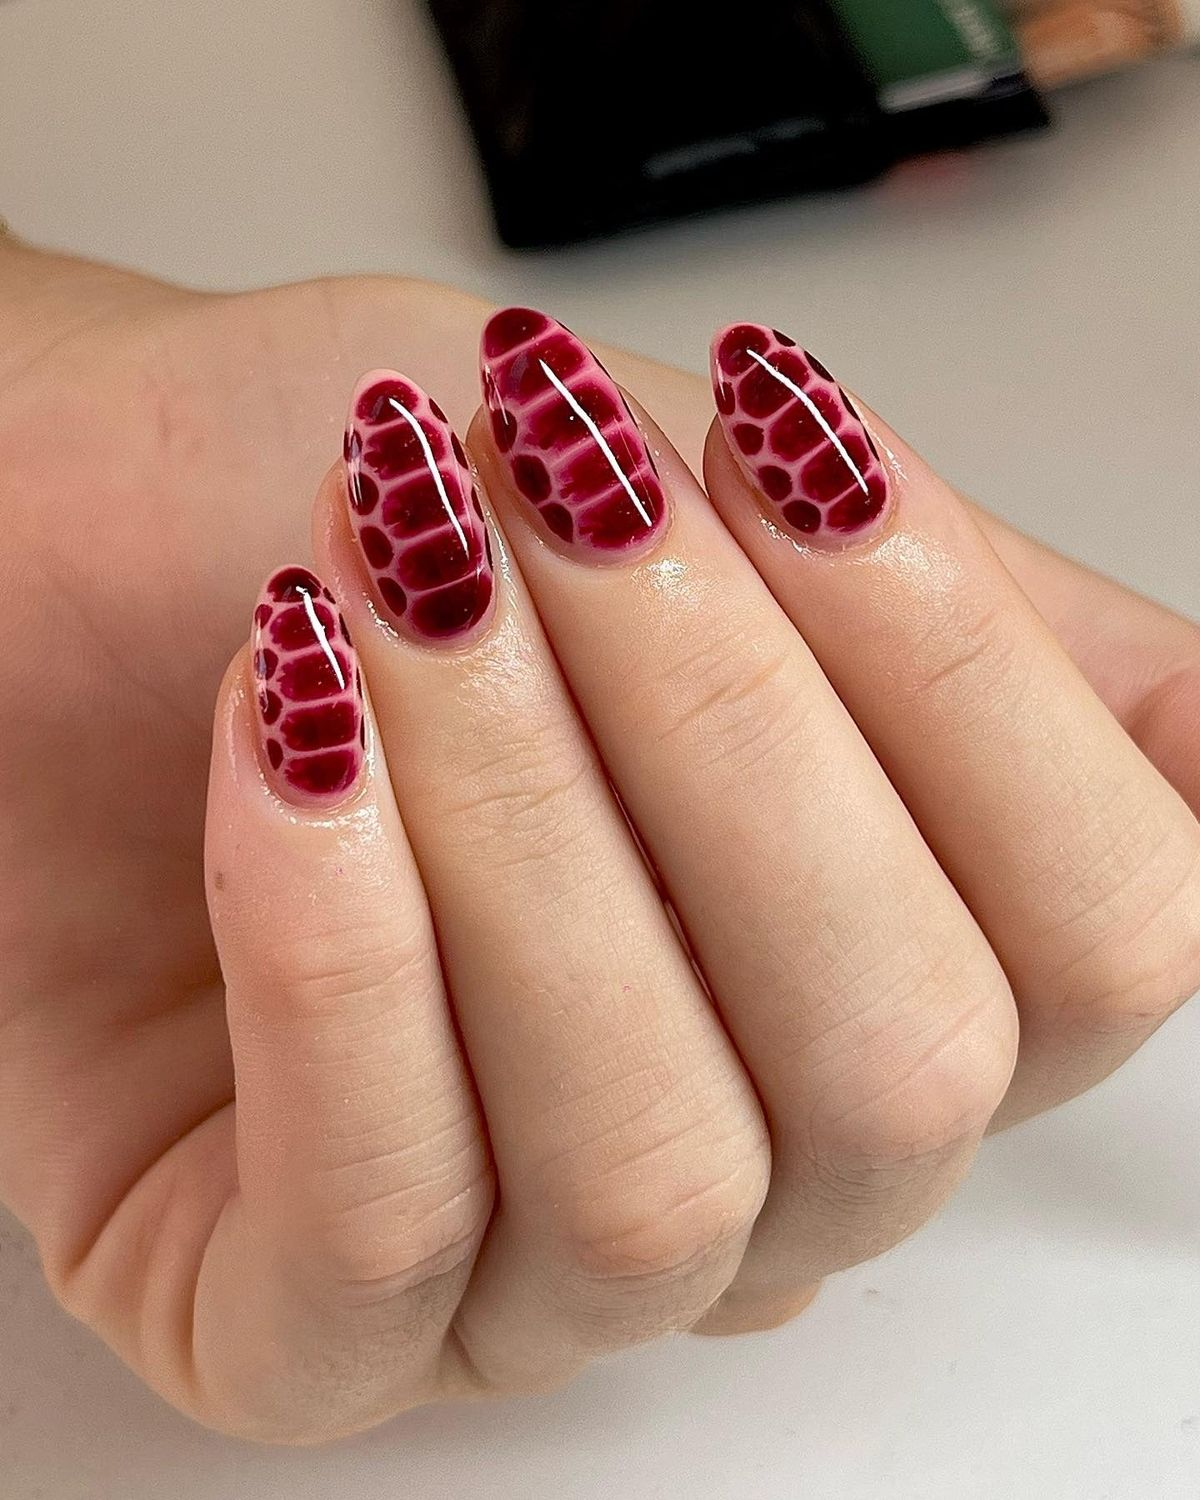
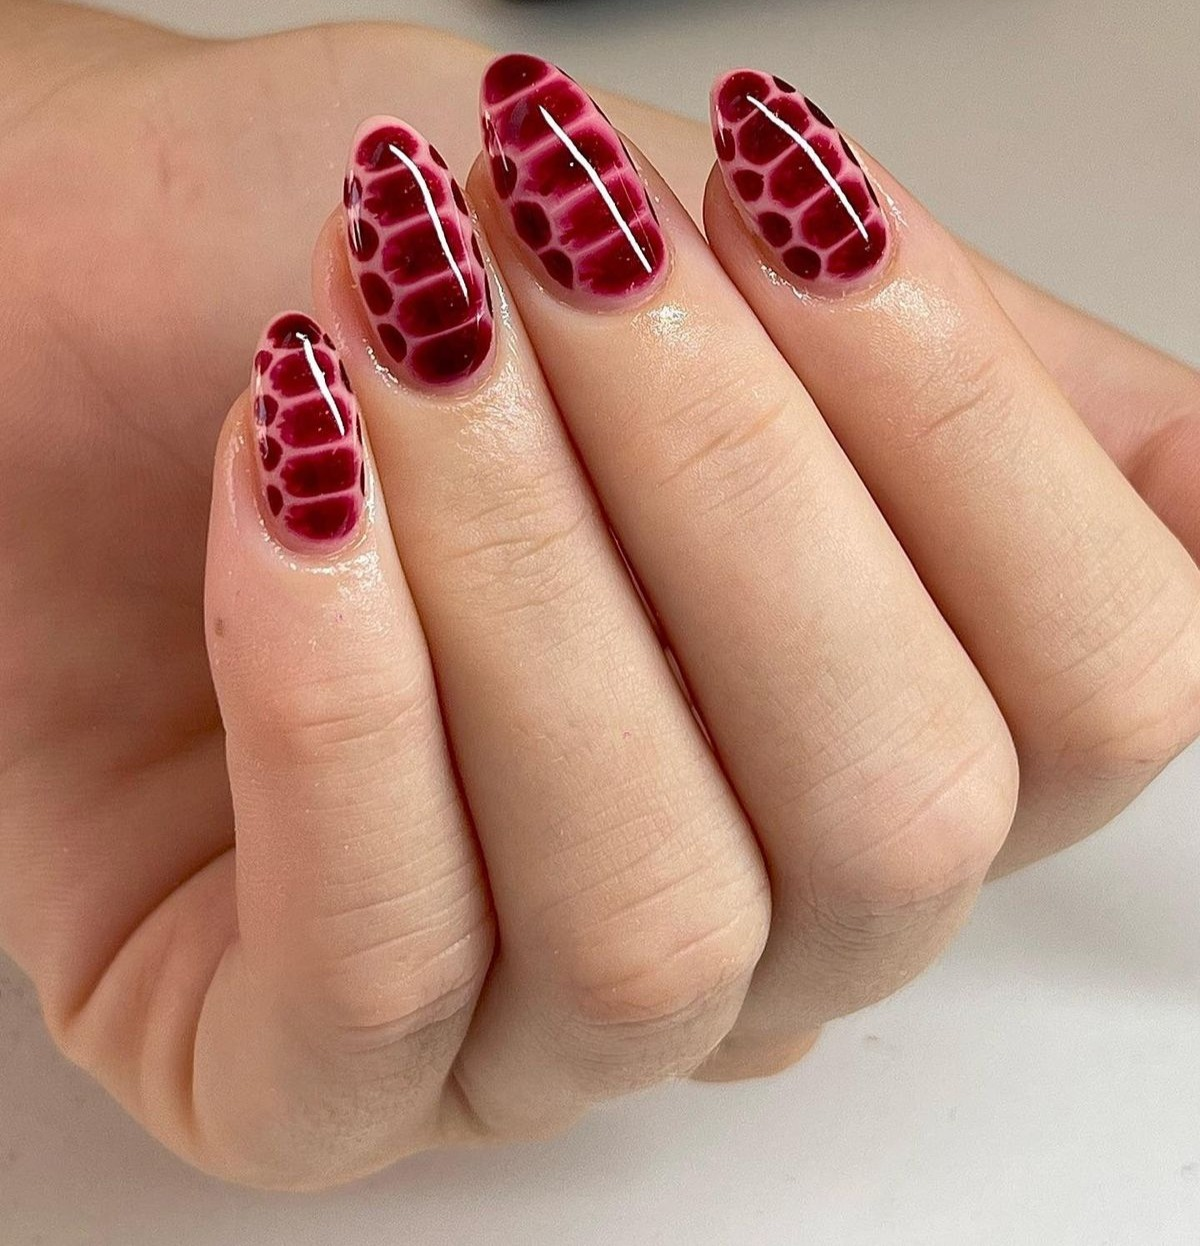
Add files via upload

diff --git a/index.html b/index.html
@@ -14,7 +14,7 @@ body {
 
 .container {
   max-width: 420px;
-  width:100%
+  width:100%;
   margin: auto;
 }
 
@@ -70,7 +70,11 @@ button {
   background: #25D366;
   color: white;
 }
-
+.whatsapp:disabled {
+  background: #9adbb0;
+  cursor: not-allowed;
+  opacity: 0.7;
+}
 .total {
   text-align: center;
   font-size: 26px;
@@ -134,21 +138,23 @@ lo vemos en el momento y te paso el valor según el trabajo 💅
 </small>
   <select id="decoracion" onchange="mostrarImagen()">
     <option value="0" data-img="">Sin decoración</option>
-    <option value="15000" data-img="relieve.jpg">Relieve - $15.000</option>
-    <option value="15000" data-img="carey.jpg">Carey - $15.000</option>
-    <option value="15000" data-img="cromado.jpg">Cromado - $15.000</option>
-    <option value="15000" data-img="cateye.jpg">Cat Eye - $15.000</option>
-    <option value="12000" data-img="blooming.jpg">Blooming - $12.000</option>
-    <option value="10000" data-img="babyboomer.jpg">Baby Boomer - $10.000</option>
-    <option value="10000" data-img="babycolor.jpg">Baby Color - $10.000</option>
-    <option value="8000" data-img="premium.jpg">Mano alzada premium - $8.000</option>
-    <option value="7000" data-img="french.jpg">French - $7.000</option>
-    <option value="7000" data-img="strass.jpg">Strass - $7.000</option>
-    <option value="6000" data-img="express.jpg">Mano alzada express (Flor, Corazon, Puntos) - $6.000</option>
-    <option value="5000" data-img="polvoaura.jpg">Polvo Aura - $5.000</option>
-    <option value="5000" data-img="polvocromadoazul.jpg">Polvo Cromado Azul - $5.000</option>
-    <option value="5000" data-img="polvocromadorojo.jpg">Polvo Cromado Rojo - $5.000</option>
-    <option value="5000" data-img="sticker.jpg">Sticker - $5.000</option>
+    <option value="10000" data-img="animalprint.jpg">Animal Print - $10.000</option>
+<option value="10000" data-img="babyboomer.jpg">Baby Boomer - $10.000</option>
+<option value="10000" data-img="babycolor.jpg">Baby Color - $10.000</option>
+<option value="12000" data-img="blooming.jpg">Blooming - $12.000</option>
+<option value="15000" data-img="carey.jpg">Carey - $15.000</option>
+<option value="15000" data-img="cateye.jpg">Cat Eye - $15.000</option>
+<option value="15000" data-img="cromado.jpg">Cromado - $15.000</option>
+<option value="7000" data-img="french.jpg">French - $7.000</option>
+<option value="10000" data-img="express1.jpg,express2.jpg,express3.jpg"> Mano alzada express (Flor, Corazon, Puntos) - $10.000</option>
+<option value="15000" data-img="marmol.jpg">Marmol - $15.000</option>
+<option value="10000" data-img="polka.jpg">Polka - $10.000</option>
+<option value="5000" data-img="polvoaura.jpg">Polvo Aura - $5.000</option>
+<option value="5000" data-img="polvocromadoazul.jpg">Polvo Cromado Azul - $5.000</option>
+<option value="5000" data-img="polvocromadorojo.jpg">Polvo Cromado Rojo - $5.000</option>
+<option value="15000" data-img="relieve.jpg">Relieve - $15.000</option>
+<option value="5000" data-img="sticker.jpg">Sticker - $5.000</option>
+<option value="7000" data-img="strass.jpg">Strass - $7.000</option>
   </select>
 
   <!-- 👇 FOTO -->
@@ -165,7 +171,19 @@ lo vemos en el momento y te paso el valor según el trabajo 💅
 
 <div class="total" id="resultado"></div>
 
-<button class="whatsapp" onclick="enviarWhatsApp()">Reservar por WhatsApp</button>
+<button class="whatsapp" id="btnWhatsApp" onclick="enviarWhatsApp()" disabled>
+Reservar por WhatsApp
+</button>
+
+<small id="avisoCalculo" style="
+display:block;
+text-align:center;
+margin-top:8px;
+color:#777;
+font-size:13px;
+">
+✨ Primero calculá el total antes de enviar por WhatsApp
+</small>
 
 </div>
 
@@ -179,15 +197,40 @@ function limitar(valor, max) {
 }
 
 function mostrarImagen() {
+
   let select = document.getElementById("decoracion");
-  let img = select.options[select.selectedIndex].getAttribute("data-img");
+
+  let imgs = select.options[select.selectedIndex]
+  .getAttribute("data-img");
 
   let preview = document.getElementById("preview");
 
-  if (img) {
-    preview.innerHTML = "<img src='" + img + "'>";
+  if (imgs) {
+
+    let arrayImgs = imgs.split(",");
+
+    let html = "";
+
+    arrayImgs.forEach(function(img) {
+
+      html += `
+      <img src="${img}" 
+      style="
+      width:100%;
+      border-radius:12px;
+      margin-top:10px;
+      box-shadow:0 6px 15px rgba(0,0,0,0.1);
+      ">
+      `;
+
+    });
+
+    preview.innerHTML = html;
+
   } else {
+
     preview.innerHTML = "";
+
   }
 }
 
@@ -240,6 +283,10 @@ function calcular() {
     "Total: $" + total.toLocaleString();
 
   window.detalle = detalle;
+document.getElementById("btnWhatsApp").disabled = false;
+
+document.getElementById("avisoCalculo").innerHTML =
+"✅ Ya podés reservar por WhatsApp";
 }
 
 function enviarWhatsApp() {